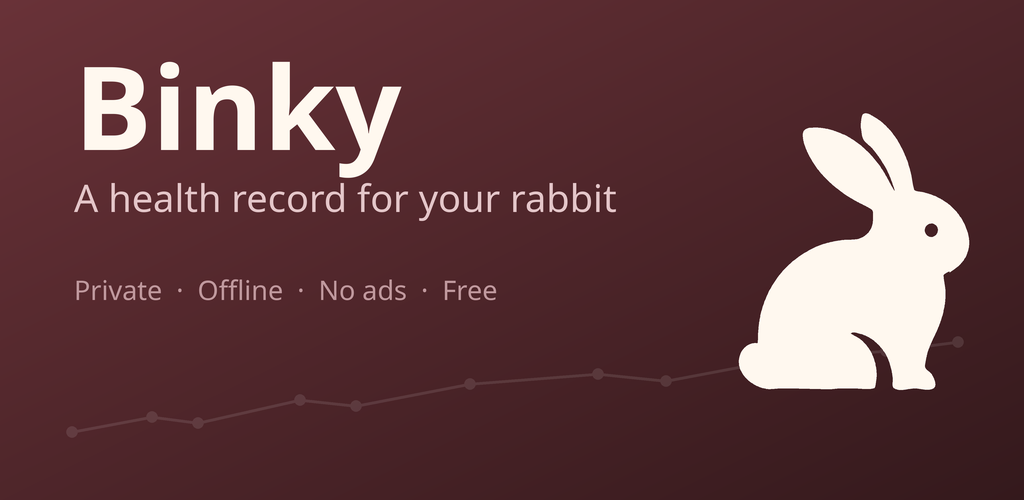
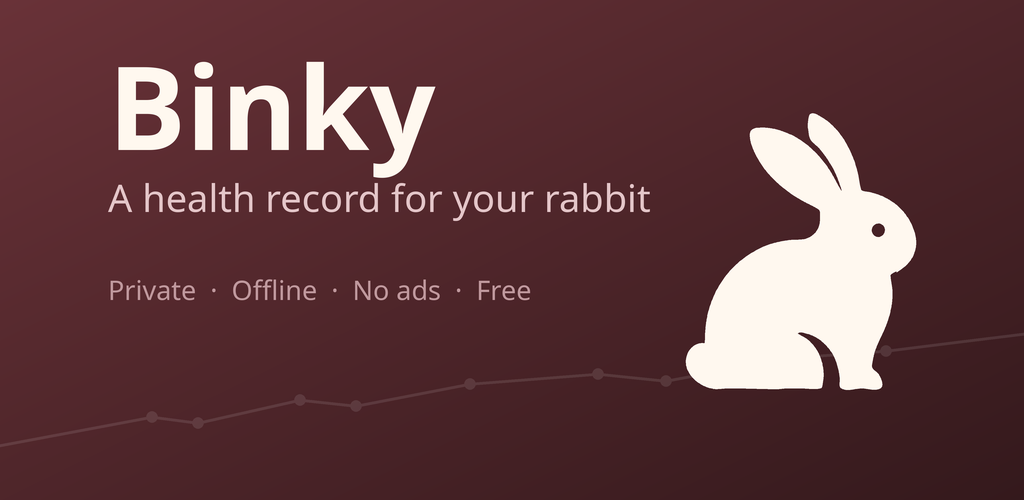
fix(art): lay the feature graphic out for the crop Play actually applies
Play does not show this asset at the size it demands. On the store's search
results card the 2.048:1 graphic is dropped into a 16:9 box with
`object-fit: cover` — measured on the live listing, not guessed — so 68px of
each side never reaches a viewer. Against that frame the old layout put the
wordmark 6px inside the visible edge, sliced 12px off the rabbit's nose, and
left the trend line's end dots half-cut.

The layout is now derived from the crop rather than positioned by eye: CROP
comes from the 16:9 ratio and MARGIN adds the 40px a viewer should actually
see. Text is aligned to MARGIN, and the rabbit is right-aligned to it through
`rabbit.bounds()`, so redrawing the mark a different width cannot push the
nose back over the line. The trend line runs off both edges on purpose — a
stroke that bleeds reads as "this continues" under any crop, where one that
stops just short of it reads as a mistake — and only points inside MARGIN get
a dot, so no half-circles.

main() measures the rendered PNG instead of trusting the constants:

    crop takes 68px per side -> Play shows x 68..956
    ink spans x 108..915; visible margins 40px left, 41px right — ok

The 512 icon needed nothing; the live one is identical in geometry to the
repo's and clears both a circular and a rounded mask.

The uploaded graphic is unchanged until it is replaced in the Console by hand.

Changed region(s): [[0.0625, 0.12, 0.6562, 0.45], [0.6562, 0.21, 0.9688, 0.78], [0.0625, 0.54, 0.5312, 0.6]]

diff --git a/art/make-feature-graphic.py b/art/make-feature-graphic.py
@@ -19,6 +19,19 @@ OUT = Path(__file__).parent / "play-feature-graphic.png"
 W, H = 1024, 500
 S = 4  # supersample factor; everything below is in final pixels, scaled by S at draw time
 
+# Play does not show this graphic at the size it demands. On the store's search results the
+# 2.048:1 asset is dropped into a **16:9** box with `object-fit: cover` — measured on the live
+# listing, not guessed — so the sides are cropped away and only the middle 86.8% survives. The
+# first cut of this file put the wordmark 74px in and the rabbit's nose at 968, which left 6px
+# of visible left margin and sliced 12px off the nose.
+#
+# So the layout is declared against the *cropped* frame and derived from there. MARGIN is the
+# gap from the canvas edge, sized to leave a real margin inside the crop as well; main()
+# asserts both properties rather than trusting this note.
+CROP = round(W * (1 - (16 / 9) / (W / H)) / 2)  # 68px lost from each side
+VISIBLE_MARGIN = 40  # what a viewer of the cropped graphic should actually see
+MARGIN = CROP + VISIBLE_MARGIN  # 108px from the canvas edge to any content, both sides
+
 # Shared with the launcher icon, so the two read as one identity.
 ROSE, ROSE_DARK, CREAM = rabbit.ROSE, rabbit.ROSE_DARK, rabbit.CREAM
 # Two steps down from CREAM towards the ground, so the three text weights read as one family
@@ -65,14 +78,22 @@ def draw_rabbit(base, ox, oy):
 
 def draw_trend(base, points, colour, width):
     """The weight chart's own motif: irregular x spacing, because that is the honest shape
-    of real weighings and the one thing the app refuses to fake (see CLAUDE.md)."""
+    of real weighings and the one thing the app refuses to fake (see CLAUDE.md).
+
+    The line runs off both edges on purpose — a stroke that bleeds reads as "this continues"
+    under any crop, where a stroke that stops just short of one reads as a mistake. The dots
+    are the opposite case: a half-cut circle is unmistakably a clipping bug, so only points
+    inside MARGIN get one and the bleeding ends stay bare.
+    """
     layer = Image.new("RGBA", base.size, (0, 0, 0, 0))
     ld = ImageDraw.Draw(layer)
     scaled = [(x * S, y * S) for x, y in points]
     ld.line(scaled, fill=colour, width=width * S, joint="curve")
-    for x, y in scaled:
+    for (x, y), (sx, sy) in zip(points, scaled):
+        if not MARGIN <= x <= W - MARGIN:
+            continue
         r = width * S * 1.9
-        ld.ellipse([x - r, y - r, x + r, y + r], fill=colour)
+        ld.ellipse([sx - r, sy - r, sx + r, sy + r], fill=colour)
     base.alpha_composite(layer)
 
 
@@ -83,20 +104,22 @@ def main():
     # Background trend line, low contrast so it reads as texture rather than a chart.
     draw_trend(
         base,
-        [(72, 432), (152, 417), (198, 423), (300, 400), (356, 406), (470, 384),
-         (598, 374), (666, 381), (788, 358), (886, 351), (958, 342)],
+        [(-40, 453), (72, 432), (152, 417), (198, 423), (300, 400), (356, 406), (470, 384),
+         (598, 374), (666, 381), (788, 358), (886, 351), (958, 342), (1064, 329)],
         (0xFF, 0xFF, 0xFF, 26),
         3,
     )
 
-    draw_rabbit(base, ox=852, oy=252)
+    # Right-aligned against MARGIN rather than positioned by eye, so the nose cannot drift
+    # back over the crop line if the mark in rabbit.py is ever redrawn a different width.
+    draw_rabbit(base, ox=round(W - MARGIN - rabbit.bounds()[2]), oy=252)
 
     d = ImageDraw.Draw(base)
     wordmark = ImageFont.truetype(str(FONT_BOLD), 116 * S)
     tagline = ImageFont.truetype(str(FONT_REG), 38 * S)
     features = ImageFont.truetype(str(FONT_REG), 27 * S)
 
-    x = 74 * S
+    x = MARGIN * S
     d.text((x, 150 * S), "Binky", font=wordmark, fill=CREAM, anchor="ls")
     d.text((x, 212 * S), "A health record for your rabbit", font=tagline, fill=TAGLINE, anchor="ls")
     d.text((x, 300 * S), "Private  ·  Offline  ·  No ads  ·  Free", font=features, fill=SUBTLE, anchor="ls")
@@ -104,6 +127,17 @@ def main():
     out = base.resize((W, H), Image.LANCZOS).convert("RGB")  # RGB: Play rejects alpha
     out.save(OUT, "PNG", optimize=True)
     print(f"{OUT}  {out.size[0]}x{out.size[1]}  {OUT.stat().st_size / 1024:.0f} KiB  mode={out.mode}")
+
+    # Measure the rendered result, not the intent: a font metric or a redrawn mark can push
+    # ink past the crop line without any of the constants above changing.
+    px = out.load()
+    cols = [x for x in range(W)
+            if any(px[x, y][0] > 150 and px[x, y][1] > 120 and px[x, y][2] > 110 for y in range(H))]
+    left, right = min(cols), max(cols)
+    print(f"crop takes {CROP}px per side -> Play shows x {CROP}..{W - CROP}")
+    print(f"ink spans x {left}..{right}; visible margins {left - CROP}px left, "
+          f"{(W - CROP) - right}px right"
+          f" — {'ok' if left >= MARGIN and right <= W - MARGIN else 'CLIPPED by the 16:9 crop'}")
 
 
 if __name__ == "__main__":

diff --git a/docs/store-listing.md b/docs/store-listing.md
@@ -56,7 +56,7 @@ for consistency rather than because those languages need it.
 | --- | --- |
 | Privacy policy URL | `https://srednimax.github.io/binky-app/privacy-policy.html` |
 | App icon (512²) | [`art/play-icon-512.png`](../art/play-icon-512.png) |
-| Feature graphic (1024×500) | [`art/play-feature-graphic.png`](../art/play-feature-graphic.png) |
+| Feature graphic (1024×500) | [`art/play-feature-graphic.png`](../art/play-feature-graphic.png) — **Play crops it to 16:9**, `object-fit: cover` on the search results card, so 68px of each side never shows. `make-feature-graphic.py` derives the layout from that and prints the measured margins; re-upload after any change to it |
 | Phone screenshots (1452×2582) | [`art/play-screenshots/`](../art/play-screenshots/) — **eight scenes × nine locales, light**, re-shot 2026-08-26. Upload in filename order: `1_home`, `2_weight`, `3_observations`, `4_timeline`, `5_care`, `6_medication-course`, `7_documents`, `8_backup`, each suffixed with its locale tag (`-en`, `-cs`, `-de`, `-es`, `-fr`, `-it`, `-pl`, `-pt-BR`, `-uk`) |
 | App category | Lifestyle |
 | Contact email | `binky.support@gmail.com` — the per-app support address, set in Store settings, not the account-level developer email |
